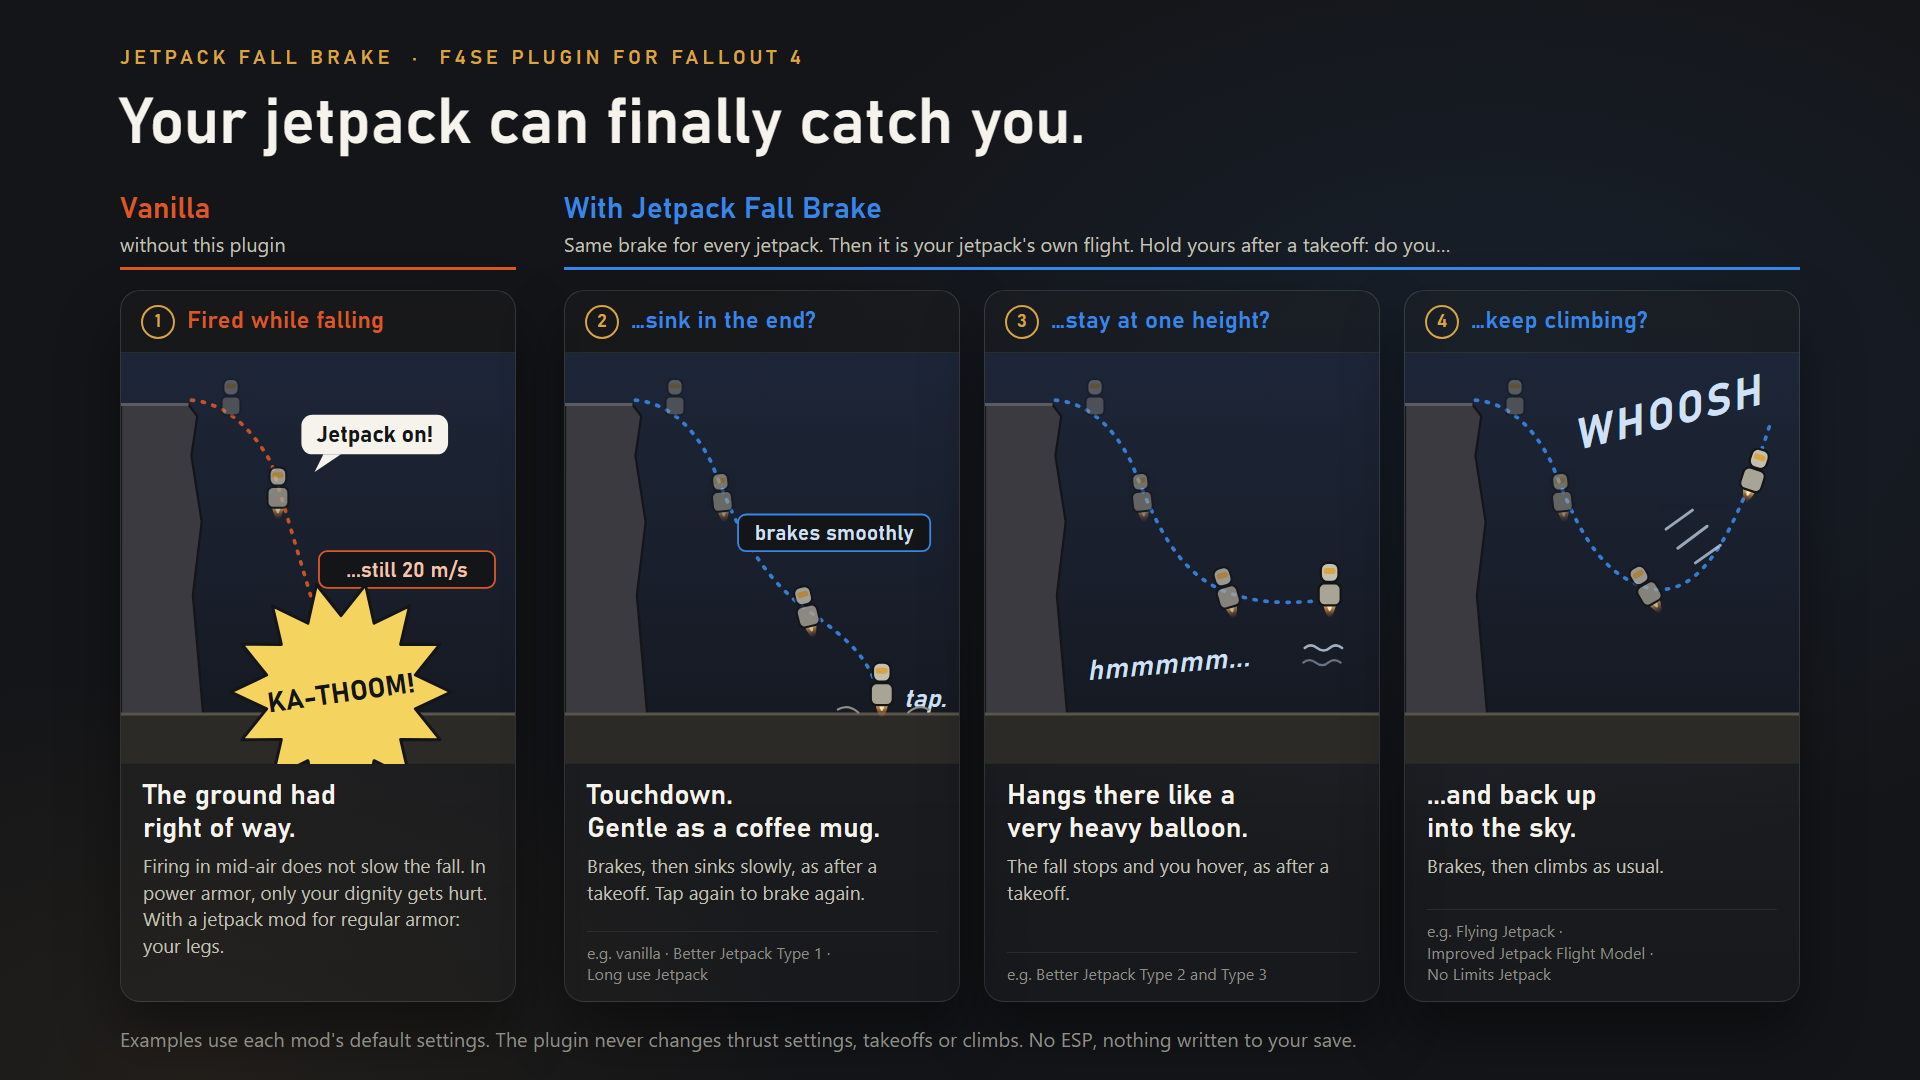
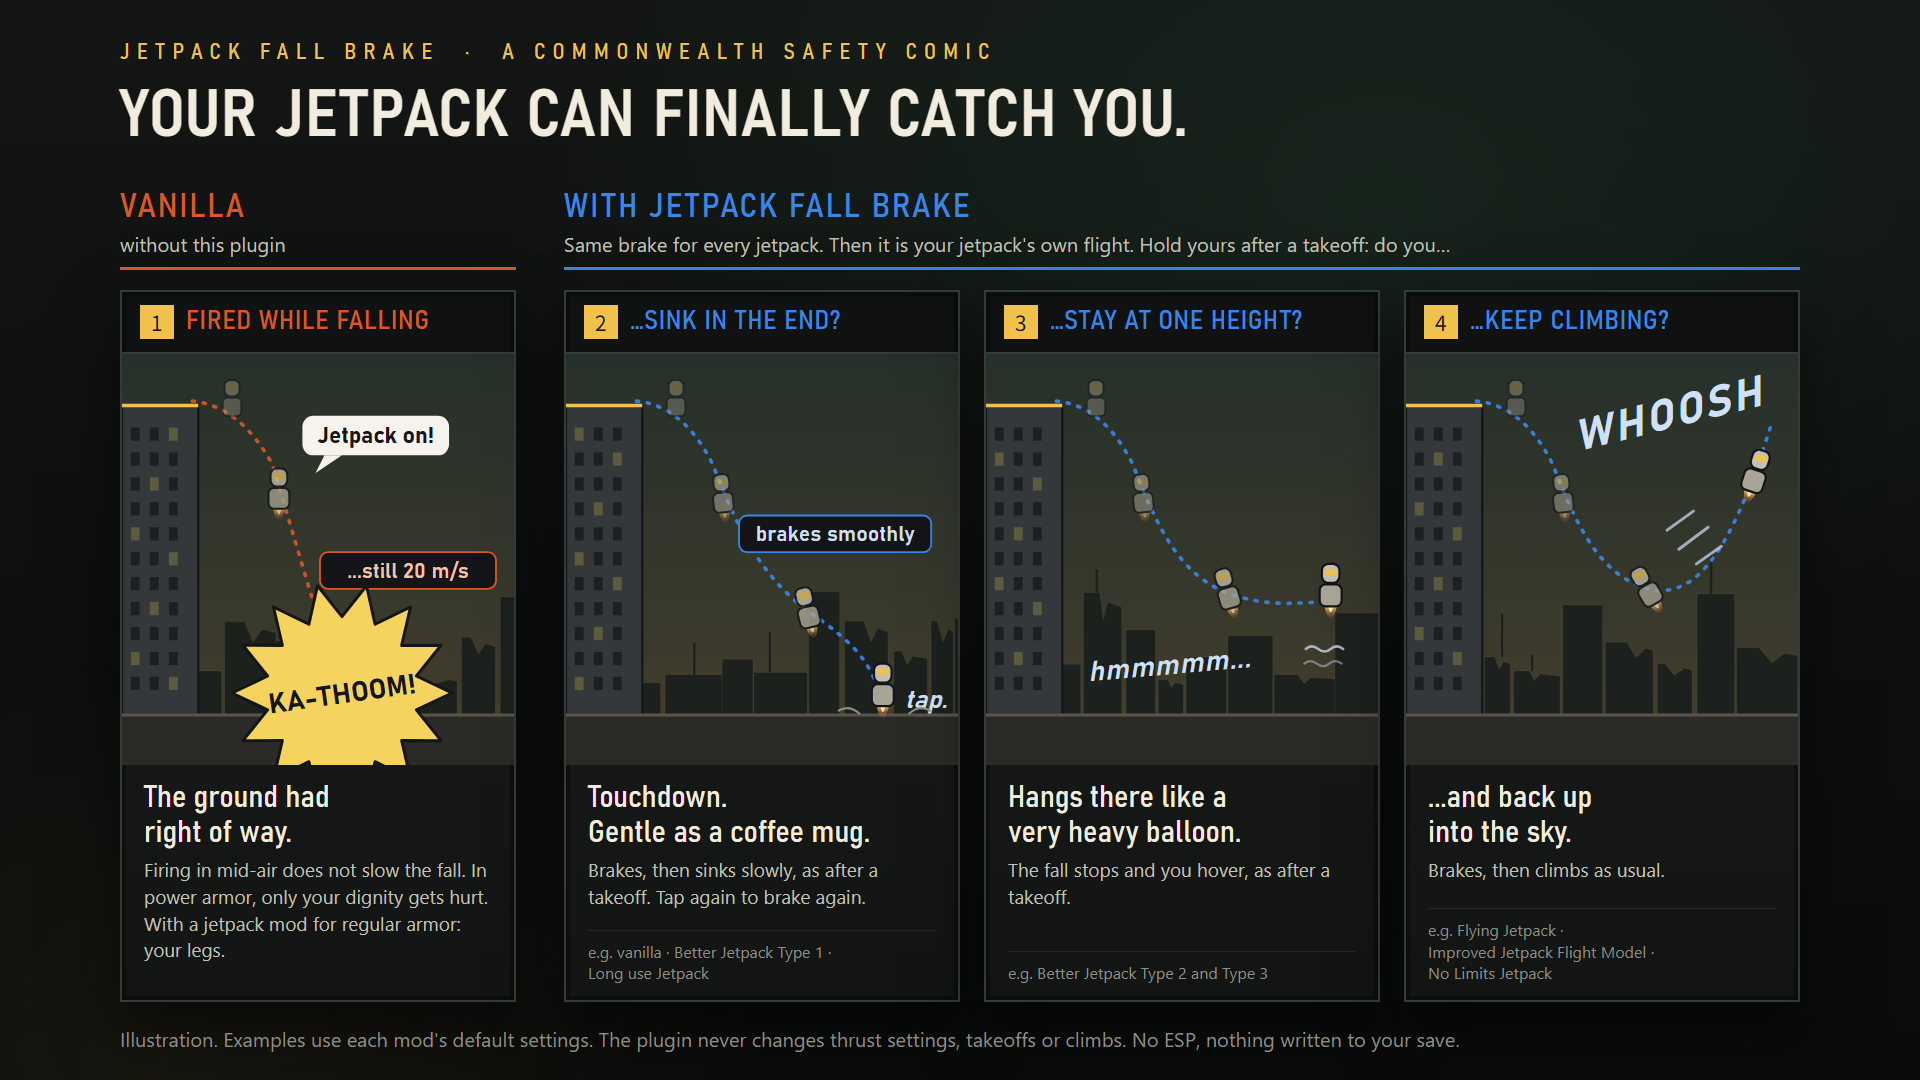
Update README for 1.1.0 and redraw images in a Fallout style
Supported versions, the tested list and a Changes section. The jetpack text
now covers jetpack mods for regular armor, not only power armor. New hero
image with two real game frames of the same jump, and a link to the
comparison video.

diff --git a/README.md b/README.md
@@ -4,11 +4,12 @@
 <a href="LICENSE"><img src="https://img.shields.io/github/license/quoteproxy/JetpackFallBrake" alt="MIT license"></a>
 <a href="https://buymeacoffee.com/quoteproxy"><img src="https://img.shields.io/badge/Buy_me_a_coffee-FFDD00?logo=buymeacoffee&logoColor=000" alt="Support on Buy Me a Coffee"></a>
 
-![Comic: in vanilla, firing the jetpack while falling does not slow the fall and you hit the ground. With Jetpack Fall Brake the fall is braked, then your jetpack flies on as after a takeoff: you land softly, hover or climb back up, depending on your jetpack](docs/images/comic.png)
+![Jetpack Fall Brake: real game frames of the same jump off the Mass Fusion building with the same input. Vanilla: the jetpack was fired mid-fall and did not slow down, the player lies on the roof below. With this plugin: the same firing braked the fall and the player flies on. Tested on 1.10.163, 1.10.984 and 1.11.240](docs/images/hero.png)
 
-An F4SE plugin for Fallout 4 (1.11.x). In vanilla, firing the power armor jetpack while you fall does not
-slow the fall: you keep falling at the same speed until you hit the ground. With this plugin, firing the
-jetpack while falling brakes the fall smoothly. After the brake, your jetpack flies on exactly as it does
+An F4SE plugin for Fallout 4 (1.10.163, 1.10.980+ and 1.11.x). In vanilla, firing a jetpack while you fall
+does not slow the fall: you keep falling at the same speed until you hit the ground. This goes for the power
+armor jetpack and for jetpack mods for regular armor. With this plugin, firing the jetpack while falling
+brakes the fall smoothly. After the brake, your jetpack flies on exactly as it does
 after a takeoff, so depending on your jetpack (vanilla or a jetpack mod) you land softly, hover or climb
 back up.
 
@@ -21,16 +22,22 @@ The brake is the same for every jetpack. After it, the jetpack is handed back to
 takeoff from the ground gives, so it carries on as after a takeoff. Hold your jetpack after a normal
 takeoff and see what it does:
 
+![Comic: in vanilla, firing the jetpack while falling does not slow the fall and you hit the ground. With Jetpack Fall Brake the fall is braked, then your jetpack flies on as after a takeoff: you land softly, hover or climb back up, depending on your jetpack](docs/images/comic.png)
+
 | After a takeoff, holding the jetpack, you... | Firing it while falling, with this plugin | Default settings of |
 |---|---|---|
 | sink in the end | brakes, then sinks slowly; tap again to brake again | vanilla, Better Jetpack Type 1, Long use Jetpack |
 | stay at one height | the fall stops and you hover | Better Jetpack Type 2 and Type 3 |
 | keep climbing | brakes, then climbs back up | Flying Jetpack, Improved Jetpack Flight Model, No Limits Jetpack |
 
-Tested in game with Flying Jetpack. The other rows are computed from each mod's default jetpack settings
+Tested in game with Flying Jetpack, on the power armor jetpack and on jetpacks for regular armor
+(Armorsmith Extended, MS-06F Jetpack). The other rows are computed from each mod's default jetpack settings
 with the plugin's own code.
 
 ## Results
+
+In game: the same jump off the Mass Fusion building and the same input, vanilla on the left and this plugin
+on the right ([video](https://youtu.be/xtg3yUf2H4o)).
 
 Simulated with the plugin's own code, vanilla jetpack settings, 60 fps. Walking off a 40 m drop and firing
 the jetpack, vanilla hits the ground at 19 m/s. With this plugin the fall stops 9 m lower and the jetpack
@@ -47,8 +54,8 @@ With this plugin it starts from the real fall speed and is braked like any other
 
 ![The three game rules that keep you falling: firing in mid-air only holds your speed, slow falls are ignored, braking does not soften the landing](docs/images/how.png)
 
-This was found by reverse engineering `Fallout4.exe` 1.11.240 (from a runtime memory dump). Three game
-rules keep you falling:
+This was found by reverse engineering `Fallout4.exe` 1.11.240 (from a runtime memory dump); 1.10.163 and
+1.10.984 follow the same rules. The addresses below are the 1.11.240 ones. Three game rules keep you falling:
 
 1. **Firing in mid-air only holds your speed.** Every frame the jetpack integrates its own vertical speed:
    `vz += (thrust - 100) * 6.8693 * dt`, so a thrust of 100 exactly cancels gravity. The thrust blends from
@@ -67,7 +74,8 @@ rules keep you falling:
 
 ## How it is fixed
 
-Three hooks, all found by byte pattern (no hardcoded addresses):
+Three hooks, all found by byte pattern (no hardcoded addresses). The offsets are the 1.11.240 ones; the log
+shows where they are on your version:
 
 1. **Jetpack update** (`Fallout4.exe+B80D5D`). When the jetpack is fired while falling, a recovery starts.
    The thrust follows a smooth curve towards the climb speed V of a takeoff from the ground:
@@ -103,7 +111,8 @@ In first person, the fall animation (JumpFall) that the jetpack starts ends with
 trigger after about 2.3 s. Long jetpack flights and long falls reach it while still in the air: the camera
 dips and a landing sound plays. The optional file on Nexus Mods removes only that trigger from the three
 first-person behavior files (`MTBehavior.hkx`, `GunBehavior.hkx`, `MeleeBehavior.hkx`, one byte each).
-Real landings work as before. It works with or without the plugin.
+Real landings work as before. It works with or without the plugin. The three files are the same in
+1.10.163, 1.10.984 and 1.11.240, so the optional file fits all of them.
 
 The behavior files are game assets, so they are not in this repository. `tools/patch_jumpfall.py` makes
 them from your own game files (`Meshes\Actors\Character\_1stPerson\Behaviors\*.hkx`, extracted from
@@ -129,15 +138,16 @@ python tools\patch_jumpfall.py MTBehavior.hkx MTBehavior_patched.hkx
 
 ## Requirements
 
-- Fallout 4 1.11.x (Next Gen update)
-- [F4SE](https://f4se.silverlock.org/) for your game version (0.7.x)
+- Fallout 4 1.10.163 (before the Next Gen update), 1.10.980+ or 1.11.x
+- [F4SE](https://f4se.silverlock.org/) for your game version: 0.6.23 for 1.10.163, 0.7.x for 1.10.980+ and
+  1.11.x
 
 ## Compatibility
 
-- Built and tested on Fallout 4 **1.11.240** with F4SE 0.7.9.
-- On other 1.11.x versions every patch first looks for the code it expects and turns itself off if it
-  does not find it; check the log to see what was installed. 1.10.163 (before the Next Gen update) is not
-  supported.
+- Built and tested in game on Fallout 4 **1.11.240** (F4SE 0.7.9), **1.10.984** (F4SE 0.7.2) and
+  **1.10.163** (F4SE 0.6.23).
+- On other versions every patch first looks for the code it expects and turns itself off if it does not
+  find it; check the log to see what was installed.
 - Jetpack mods that change the jetpack game settings work: the plugin reads them from the game.
 - If another plugin already changed the same code, that part is skipped and the log says so.
 
@@ -145,6 +155,12 @@ python tools\patch_jumpfall.py MTBehavior.hkx MTBehavior_patched.hkx
 
 `build.bat` (Visual Studio 2022 or Build Tools 2022, x64). Output: `build\JetpackFallBrake.dll`, also copied
 to `package\F4SE\Plugins\`.
+
+## Changes
+
+- **1.1.0**: Fallout 4 1.10.163 (before the Next Gen update) and 1.10.980+ (the first Next Gen release)
+  support. Nothing changes on 1.11.x, so there is no need to update there.
+- **1.0.0**: First release.
 
 ## Support
 
